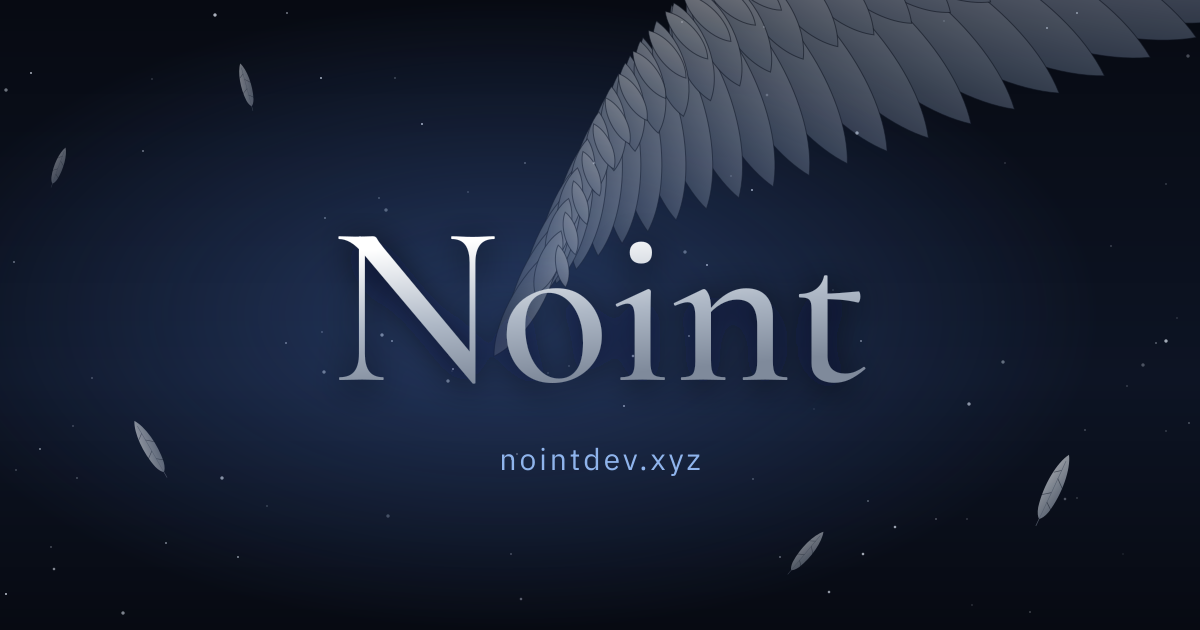
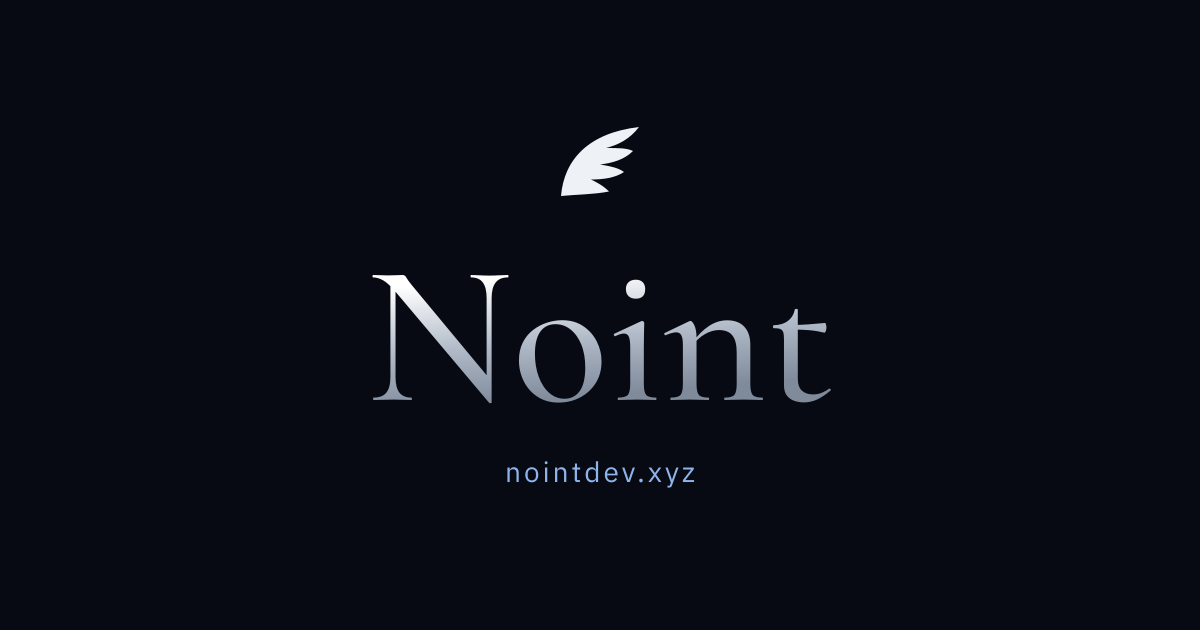
Keep it simple: solid background, the name, and the list
No intro text, stars, glow, falling feathers or wing behind the name.
The preview image is the mark and the name on night blue.

diff --git a/index.html b/index.html
@@ -57,10 +57,10 @@
   <link rel="preconnect" href="https://fonts.gstatic.com" crossorigin>
   <link href="https://fonts.googleapis.com/css2?family=Cormorant:wght@500;600&family=IBM+Plex+Sans:wght@400;500;600&family=Noto+Sans+JP:wght@500&family=Noto+Serif+JP:wght@500&display=swap" rel="stylesheet">
   <!--
-    A night sky after Noint, the ninth apostle in Arifureta, drawn from scratch rather than
-    taken from the show: a silver wing behind the name, a cold blue glow from her eyes, and
-    silver feathers drifting down and fading out (her Disintegration). Projects are
-    numbered, like the apostles.
+    Colours after Noint, the ninth apostle in Arifureta: silver on night blue, with a cold
+    blue for links. The wing mark and the feathers are drawn from scratch, not taken from the
+    show. Each row's feather comes apart into specks on hover (her Disintegration), and
+    projects are numbered, like the apostles.
 
     Generated by build.py from template.html and projects.json. Edit those, not index.html.
   -->
@@ -85,7 +85,7 @@
     body {
       margin: 0;
       min-height: 100vh;
-      background: linear-gradient(180deg, var(--night) 0%, var(--night-2) 55%, var(--night) 100%) fixed;
+      background: var(--night);
       color: var(--ink);
       font: 400 17px/1.65 var(--text);
       -webkit-font-smoothing: antialiased;
@@ -101,31 +101,6 @@
     .ja-serif { font-family: 'Noto Serif JP', Georgia, serif; }
     main, header, footer { position: relative; z-index: 1; }
 
-    /* The sky: stars, and feathers falling through it. Both sit behind everything. */
-    .stars, .fall { position: fixed; inset: 0; pointer-events: none; z-index: 0; }
-    .stars svg { width: 100%; height: 100%; }
-    .fall { overflow: hidden; }
-    .fall span {
-      position: absolute; top: -90px; left: var(--x);
-      width: var(--w); opacity: 0;
-      animation: drop var(--d) linear var(--delay) infinite;
-    }
-    .fall svg { display: block; width: 100%; height: auto; animation: sway calc(var(--d) / 3) ease-in-out infinite alternate; }
-    @keyframes drop {
-      0% { transform: translateY(0); opacity: 0; }
-      8% { opacity: var(--o); }
-      70% { opacity: var(--o); }
-      100% { transform: translateY(calc(100vh + 120px)); opacity: 0; }
-    }
-    @keyframes sway {
-      from { transform: translateX(-26px) rotate(calc(var(--r) - 22deg)); }
-      to { transform: translateX(26px) rotate(calc(var(--r) + 22deg)); }
-    }
-    @media (prefers-reduced-motion: reduce) {
-      .fall span { animation: none; top: var(--y); opacity: var(--o); }
-      .fall svg { animation: none; transform: rotate(var(--r)); }
-    }
-
     /* Top line. */
     .top { display: flex; align-items: center; gap: 10px; padding: 22px 0; }
     .top .mark { width: 28px; height: 28px; color: var(--silver-hi); }
@@ -134,32 +109,16 @@
     .top .gh:hover { color: var(--ink); }
 
     /* The name, with the wing behind it and the glow under both. */
-    .intro { padding: 72px 0 96px; }
-    @media (min-width: 760px) { .intro { padding: 120px 0 140px; } }
-    .intro .wing {
-      position: absolute; z-index: -1;
-      left: 360px; top: -250px;
-      width: 760px; max-width: none; height: auto;
-      opacity: 0.4;
-    }
-    @media (max-width: 759px) { .intro .wing { left: 150px; top: -96px; width: 340px; opacity: 0.32; } }
-    .intro .glow {
-      position: absolute; z-index: -2;
-      left: -10%; top: -40%;
-      width: 120%; height: 180%;
-      background: radial-gradient(closest-side, var(--glow), transparent);
-    }
+    .intro { padding: 56px 0 64px; }
+    @media (min-width: 760px) { .intro { padding: 96px 0 104px; } }
     .intro h1 {
-      margin: 0 0 30px;
+      margin: 0;
       font: 500 clamp(76px, 15vw, 168px)/0.88 var(--display);
       letter-spacing: 0.01em;
       background: linear-gradient(170deg, #FFFFFF 10%, var(--silver) 60%, #7F8A9B 100%);
       -webkit-background-clip: text; background-clip: text;
       color: transparent;
-      filter: drop-shadow(0 6px 36px rgba(88, 136, 230, 0.35));
     }
-    .intro p { margin: 0 0 12px; max-width: 34em; font-size: clamp(17px, 1.7vw, 20px); color: var(--soft); }
-    .intro p:first-of-type { color: var(--ink); }
 
     /* The list. */
     .list-head { display: flex; align-items: baseline; gap: 12px; border-bottom: 1px solid var(--silver-lo); padding-bottom: 10px; }
@@ -249,18 +208,6 @@
       <symbol id="feather" viewBox="0 0 120 370"><path fill="url(#feather-fill)" d="M60,40 C92,90 104,200 84,292 C78,315 68,330 60,335 C52,330 42,315 36,292 C16,200 28,90 60,40 Z"/><path d="M60,150 L97,182 M60,214 L25,240 M60,258 L90,282 M60,112 L34,132" stroke="#0D1424" stroke-opacity="0.55" stroke-width="3" stroke-linecap="round" fill="none"/><path d="M60,70 Q61,220 60,366" stroke="#7F8A9B" stroke-width="2.5" stroke-linecap="round" fill="none"/></symbol>
     </defs>
   </svg>
-  <div class="stars" aria-hidden="true"><svg viewBox="0 0 1000 1000" preserveAspectRatio="xMidYMid slice"><circle cx="463" cy="373" r="0.7" fill="#DCE4F0" opacity="0.36"/><circle cx="677" cy="338" r="1.0" fill="#DCE4F0" opacity="0.79"/><circle cx="81" cy="554" r="1.0" fill="#DCE4F0" opacity="0.67"/><circle cx="728" cy="169" r="1.0" fill="#DCE4F0" opacity="0.82"/><circle cx="423" cy="168" r="0.6" fill="#DCE4F0" opacity="0.32"/><circle cx="506" cy="924" r="1.0" fill="#DCE4F0" opacity="0.29"/><circle cx="688" cy="790" r="0.6" fill="#DCE4F0" opacity="0.80"/><circle cx="205" cy="224" r="1.7" fill="#DCE4F0" opacity="0.50"/><circle cx="88" cy="267" r="0.7" fill="#DCE4F0" opacity="0.49"/><circle cx="342" cy="43" r="1.3" fill="#DCE4F0" opacity="0.78"/><circle cx="879" cy="55" r="1.0" fill="#DCE4F0" opacity="0.76"/><circle cx="139" cy="237" r="1.3" fill="#DCE4F0" opacity="0.79"/><circle cx="112" cy="597" r="0.6" fill="#DCE4F0" opacity="0.71"/><circle cx="198" cy="852" r="0.8" fill="#DCE4F0" opacity="0.25"/><circle cx="84" cy="540" r="0.6" fill="#DCE4F0" opacity="0.55"/><circle cx="573" cy="538" r="0.7" fill="#DCE4F0" opacity="0.50"/><circle cx="398" cy="639" r="0.6" fill="#DCE4F0" opacity="0.67"/><circle cx="145" cy="940" r="1.3" fill="#DCE4F0" opacity="0.82"/><circle cx="54" cy="555" r="1.0" fill="#DCE4F0" opacity="0.76"/><circle cx="745" cy="737" r="1.0" fill="#DCE4F0" opacity="0.85"/><circle cx="121" cy="705" r="0.7" fill="#DCE4F0" opacity="0.35"/><circle cx="505" cy="736" r="1.7" fill="#DCE4F0" opacity="0.65"/><circle cx="590" cy="775" r="0.6" fill="#DCE4F0" opacity="0.77"/><circle cx="110" cy="882" r="0.8" fill="#DCE4F0" opacity="0.52"/><circle cx="402" cy="986" r="1.0" fill="#DCE4F0" opacity="0.70"/><circle cx="379" cy="608" r="0.6" fill="#DCE4F0" opacity="0.51"/><circle cx="213" cy="444" r="0.8" fill="#DCE4F0" opacity="0.74"/><circle cx="307" cy="285" r="1.0" fill="#DCE4F0" opacity="0.72"/><circle cx="25" cy="781" r="1.7" fill="#DCE4F0" opacity="0.51"/><circle cx="346" cy="778" r="1.0" fill="#DCE4F0" opacity="0.69"/><circle cx="425" cy="231" r="1.7" fill="#DCE4F0" opacity="0.49"/><circle cx="373" cy="860" r="0.8" fill="#DCE4F0" opacity="0.33"/><circle cx="290" cy="693" r="0.8" fill="#DCE4F0" opacity="0.27"/><circle cx="939" cy="810" r="0.8" fill="#DCE4F0" opacity="0.82"/><circle cx="986" cy="607" r="0.6" fill="#DCE4F0" opacity="0.28"/><circle cx="450" cy="787" r="0.8" fill="#DCE4F0" opacity="0.62"/><circle cx="966" cy="355" r="0.7" fill="#DCE4F0" opacity="0.54"/><circle cx="278" cy="962" r="1.3" fill="#DCE4F0" opacity="0.58"/><circle cx="696" cy="66" r="1.0" fill="#DCE4F0" opacity="0.34"/><circle cx="562" cy="795" r="1.0" fill="#DCE4F0" opacity="0.78"/><circle cx="169" cy="715" r="1.7" fill="#DCE4F0" opacity="0.61"/><circle cx="608" cy="349" r="0.6" fill="#DCE4F0" opacity="0.42"/><circle cx="128" cy="798" r="1.7" fill="#DCE4F0" opacity="0.30"/><circle cx="780" cy="222" r="0.6" fill="#DCE4F0" opacity="0.37"/><circle cx="474" cy="592" r="1.0" fill="#DCE4F0" opacity="0.48"/><circle cx="173" cy="482" r="0.8" fill="#DCE4F0" opacity="0.57"/><circle cx="941" cy="29" r="1.0" fill="#DCE4F0" opacity="0.78"/><circle cx="544" cy="523" r="1.0" fill="#DCE4F0" opacity="0.63"/><circle cx="796" cy="877" r="1.0" fill="#DCE4F0" opacity="0.58"/><circle cx="300" cy="725" r="1.3" fill="#DCE4F0" opacity="0.33"/><circle cx="100" cy="492" r="0.6" fill="#DCE4F0" opacity="0.54"/><circle cx="637" cy="53" r="1.0" fill="#DCE4F0" opacity="0.27"/><circle cx="244" cy="459" r="0.8" fill="#DCE4F0" opacity="0.74"/><circle cx="730" cy="625" r="0.7" fill="#DCE4F0" opacity="0.27"/><circle cx="597" cy="613" r="1.3" fill="#DCE4F0" opacity="0.50"/><circle cx="589" cy="81" r="0.6" fill="#DCE4F0" opacity="0.61"/><circle cx="181" cy="65" r="0.8" fill="#DCE4F0" opacity="0.62"/><circle cx="547" cy="475" r="1.3" fill="#DCE4F0" opacity="0.72"/><circle cx="334" cy="783" r="0.6" fill="#DCE4F0" opacity="0.53"/><circle cx="449" cy="149" r="1.0" fill="#DCE4F0" opacity="0.84"/><circle cx="833" cy="106" r="0.8" fill="#DCE4F0" opacity="0.65"/><circle cx="451" cy="129" r="0.7" fill="#DCE4F0" opacity="0.32"/><circle cx="53" cy="75" r="1.3" fill="#DCE4F0" opacity="0.84"/><circle cx="372" cy="741" r="1.0" fill="#DCE4F0" opacity="0.63"/><circle cx="201" cy="874" r="0.6" fill="#DCE4F0" opacity="0.39"/><circle cx="256" cy="518" r="0.7" fill="#DCE4F0" opacity="0.26"/><circle cx="253" cy="611" r="0.6" fill="#DCE4F0" opacity="0.56"/><circle cx="417" cy="899" r="1.0" fill="#DCE4F0" opacity="0.76"/><circle cx="605" cy="221" r="0.6" fill="#DCE4F0" opacity="0.66"/><circle cx="132" cy="39" r="0.7" fill="#DCE4F0" opacity="0.84"/><circle cx="786" cy="902" r="0.6" fill="#DCE4F0" opacity="0.78"/><circle cx="920" cy="968" r="0.6" fill="#DCE4F0" opacity="0.27"/><circle cx="439" cy="417" r="0.8" fill="#DCE4F0" opacity="0.55"/><circle cx="347" cy="837" r="1.0" fill="#DCE4F0" opacity="0.51"/><circle cx="79" cy="301" r="1.0" fill="#DCE4F0" opacity="0.62"/><circle cx="568" cy="440" r="0.7" fill="#DCE4F0" opacity="0.45"/><circle cx="59" cy="92" r="0.8" fill="#DCE4F0" opacity="0.58"/><circle cx="189" cy="712" r="1.3" fill="#DCE4F0" opacity="0.79"/><circle cx="944" cy="86" r="1.0" fill="#DCE4F0" opacity="0.83"/><circle cx="600" cy="941" r="1.3" fill="#DCE4F0" opacity="0.69"/><circle cx="211" cy="542" r="0.8" fill="#DCE4F0" opacity="0.30"/><circle cx="670" cy="422" r="0.7" fill="#DCE4F0" opacity="0.77"/><circle cx="324" cy="834" r="1.0" fill="#DCE4F0" opacity="0.55"/><circle cx="463" cy="3" r="1.0" fill="#DCE4F0" opacity="0.37"/><circle cx="224" cy="983" r="0.8" fill="#DCE4F0" opacity="0.28"/><circle cx="149" cy="163" r="0.6" fill="#DCE4F0" opacity="0.56"/><circle cx="790" cy="404" r="1.7" fill="#DCE4F0" opacity="0.49"/><circle cx="888" cy="506" r="0.7" fill="#DCE4F0" opacity="0.56"/><circle cx="357" cy="947" r="0.7" fill="#DCE4F0" opacity="0.44"/><circle cx="385" cy="182" r="1.0" fill="#DCE4F0" opacity="0.72"/><circle cx="178" cy="172" r="0.8" fill="#DCE4F0" opacity="0.66"/><circle cx="20" cy="479" r="1.7" fill="#DCE4F0" opacity="0.70"/><circle cx="427" cy="978" r="0.6" fill="#DCE4F0" opacity="0.41"/><circle cx="144" cy="451" r="1.3" fill="#DCE4F0" opacity="0.85"/><circle cx="179" cy="147" r="1.3" fill="#DCE4F0" opacity="0.46"/><circle cx="601" cy="545" r="0.8" fill="#DCE4F0" opacity="0.27"/><circle cx="186" cy="779" r="1.3" fill="#DCE4F0" opacity="0.71"/><circle cx="453" cy="341" r="1.3" fill="#DCE4F0" opacity="0.58"/><circle cx="902" cy="217" r="0.7" fill="#DCE4F0" opacity="0.75"/><circle cx="569" cy="10" r="1.0" fill="#DCE4F0" opacity="0.85"/><circle cx="936" cy="716" r="1.0" fill="#DCE4F0" opacity="0.47"/><circle cx="372" cy="799" r="1.0" fill="#DCE4F0" opacity="0.51"/><circle cx="727" cy="191" r="0.6" fill="#DCE4F0" opacity="0.80"/><circle cx="964" cy="85" r="0.8" fill="#DCE4F0" opacity="0.41"/><circle cx="247" cy="470" r="1.0" fill="#DCE4F0" opacity="0.36"/><circle cx="531" cy="933" r="1.0" fill="#DCE4F0" opacity="0.45"/><circle cx="223" cy="998" r="0.6" fill="#DCE4F0" opacity="0.28"/><circle cx="854" cy="581" r="0.7" fill="#DCE4F0" opacity="0.64"/><circle cx="339" cy="707" r="0.8" fill="#DCE4F0" opacity="0.43"/><circle cx="36" cy="406" r="1.7" fill="#DCE4F0" opacity="0.40"/></svg></div>
-  <div class="fall" aria-hidden="true">
-    <span style="--x:3.2%;--y:14%;--w:30px;--d:22.7s;--delay:-2.7s;--o:0.41;--r:4deg"><svg viewBox="0 0 120 370"><use href="#feather"/></svg></span>
-    <span style="--x:14.8%;--y:89%;--w:18px;--d:19.1s;--delay:-16.1s;--o:0.50;--r:-26deg"><svg viewBox="0 0 120 370"><use href="#feather"/></svg></span>
-    <span style="--x:24.3%;--y:23%;--w:18px;--d:27.6s;--delay:-24.2s;--o:0.68;--r:-25deg"><svg viewBox="0 0 120 370"><use href="#feather"/></svg></span>
-    <span style="--x:37.2%;--y:58%;--w:26px;--d:17.2s;--delay:-18.2s;--o:0.64;--r:0deg"><svg viewBox="0 0 120 370"><use href="#feather"/></svg></span>
-    <span style="--x:47.1%;--y:45%;--w:18px;--d:29.2s;--delay:-24.5s;--o:0.73;--r:27deg"><svg viewBox="0 0 120 370"><use href="#feather"/></svg></span>
-    <span style="--x:56.7%;--y:30%;--w:26px;--d:27.9s;--delay:-15.3s;--o:0.54;--r:8deg"><svg viewBox="0 0 120 370"><use href="#feather"/></svg></span>
-    <span style="--x:71.6%;--y:19%;--w:26px;--d:19.6s;--delay:-23.9s;--o:0.43;--r:-3deg"><svg viewBox="0 0 120 370"><use href="#feather"/></svg></span>
-    <span style="--x:87.8%;--y:49%;--w:30px;--d:25.8s;--delay:-4.4s;--o:0.64;--r:-35deg"><svg viewBox="0 0 120 370"><use href="#feather"/></svg></span>
-    <span style="--x:98.1%;--y:59%;--w:30px;--d:19.9s;--delay:-10.7s;--o:0.66;--r:-14deg"><svg viewBox="0 0 120 370"><use href="#feather"/></svg></span>
-  </div>
 
   <div class="wrap">
     <header class="top">
@@ -273,11 +220,7 @@
   <main>
     <section class="intro">
       <div class="wrap">
-        <div class="glow" aria-hidden="true"></div>
-        <svg class="wing" viewBox="0 0 1000 640" aria-hidden="true"><defs><linearGradient id="wg1" x1="0" y1="0" x2="1" y2="1"><stop offset="0" stop-color="#D3DDEC"/><stop offset="1" stop-color="#4C5B75"/></linearGradient><linearGradient id="wg2" x1="0" y1="0" x2="1" y2="1"><stop offset="0" stop-color="#E6ECF5"/><stop offset="1" stop-color="#7D8DA6"/></linearGradient><linearGradient id="wg3" x1="0" y1="0" x2="1" y2="1"><stop offset="0" stop-color="#F2F5FA"/><stop offset="1" stop-color="#A6B4C8"/></linearGradient></defs><g transform="translate(60 40) scale(0.95)"><path transform="translate(520.0 40.0) rotate(8.0)" d="M0,0 C107.5,-68.8 322.5,-72.2 430.0,0 C322.5,65.4 107.5,61.9 0,0 Z" fill="url(#wg1)" stroke="#0D1424" stroke-opacity="0.55" stroke-width="1.2"/><path transform="translate(488.5 37.5) rotate(12.5)" d="M0,0 C103.6,-66.3 310.8,-69.6 414.4,0 C310.8,63.0 103.6,59.7 0,0 Z" fill="url(#wg1)" stroke="#0D1424" stroke-opacity="0.55" stroke-width="1.2"/><path transform="translate(458.0 36.5) rotate(17.0)" d="M0,0 C99.8,-63.9 299.4,-67.1 399.2,0 C299.4,60.7 99.8,57.5 0,0 Z" fill="url(#wg1)" stroke="#0D1424" stroke-opacity="0.55" stroke-width="1.2"/><path transform="translate(428.6 37.0) rotate(21.4)" d="M0,0 C96.0,-61.5 288.1,-64.5 384.1,0 C288.1,58.4 96.0,55.3 0,0 Z" fill="url(#wg1)" stroke="#0D1424" stroke-opacity="0.55" stroke-width="1.2"/><path transform="translate(400.2 39.0) rotate(25.9)" d="M0,0 C92.3,-59.1 277.0,-62.1 369.4,0 C277.0,56.1 92.3,53.2 0,0 Z" fill="url(#wg1)" stroke="#0D1424" stroke-opacity="0.55" stroke-width="1.2"/><path transform="translate(372.8 42.4) rotate(30.4)" d="M0,0 C88.7,-56.8 266.2,-59.6 354.9,0 C266.2,53.9 88.7,51.1 0,0 Z" fill="url(#wg1)" stroke="#0D1424" stroke-opacity="0.55" stroke-width="1.2"/><path transform="translate(346.4 47.3) rotate(34.9)" d="M0,0 C85.2,-54.5 255.5,-57.2 340.7,0 C255.5,51.8 85.2,49.1 0,0 Z" fill="url(#wg1)" stroke="#0D1424" stroke-opacity="0.55" stroke-width="1.2"/><path transform="translate(321.1 53.7) rotate(39.4)" d="M0,0 C81.7,-52.3 245.1,-54.9 326.8,0 C245.1,49.7 81.7,47.1 0,0 Z" fill="url(#wg1)" stroke="#0D1424" stroke-opacity="0.55" stroke-width="1.2"/><path transform="translate(296.8 61.5) rotate(43.8)" d="M0,0 C78.3,-50.1 234.9,-52.6 313.2,0 C234.9,47.6 78.3,45.1 0,0 Z" fill="url(#wg1)" stroke="#0D1424" stroke-opacity="0.55" stroke-width="1.2"/><path transform="translate(273.5 70.8) rotate(48.3)" d="M0,0 C75.0,-48.0 224.9,-50.4 299.9,0 C224.9,45.6 75.0,43.2 0,0 Z" fill="url(#wg1)" stroke="#0D1424" stroke-opacity="0.55" stroke-width="1.2"/><path transform="translate(251.2 81.6) rotate(52.8)" d="M0,0 C71.7,-45.9 215.2,-48.2 287.0,0 C215.2,43.6 71.7,41.3 0,0 Z" fill="url(#wg1)" stroke="#0D1424" stroke-opacity="0.55" stroke-width="1.2"/><path transform="translate(230.0 93.9) rotate(57.3)" d="M0,0 C68.6,-43.9 205.8,-46.1 274.3,0 C205.8,41.7 68.6,39.5 0,0 Z" fill="url(#wg1)" stroke="#0D1424" stroke-opacity="0.55" stroke-width="1.2"/><path transform="translate(209.7 107.6) rotate(61.8)" d="M0,0 C65.5,-41.9 196.6,-44.0 262.1,0 C196.6,39.8 65.5,37.7 0,0 Z" fill="url(#wg1)" stroke="#0D1424" stroke-opacity="0.55" stroke-width="1.2"/><path transform="translate(190.5 122.8) rotate(66.2)" d="M0,0 C62.6,-40.0 187.7,-42.0 250.2,0 C187.7,38.0 62.6,36.0 0,0 Z" fill="url(#wg1)" stroke="#0D1424" stroke-opacity="0.55" stroke-width="1.2"/><path transform="translate(172.4 139.5) rotate(70.7)" d="M0,0 C59.7,-38.2 179.0,-40.1 238.7,0 C179.0,36.3 59.7,34.4 0,0 Z" fill="url(#wg1)" stroke="#0D1424" stroke-opacity="0.55" stroke-width="1.2"/><path transform="translate(155.2 157.6) rotate(75.2)" d="M0,0 C56.9,-36.4 170.7,-38.2 227.6,0 C170.7,34.6 56.9,32.8 0,0 Z" fill="url(#wg1)" stroke="#0D1424" stroke-opacity="0.55" stroke-width="1.2"/><path transform="translate(139.1 177.2) rotate(79.7)" d="M0,0 C54.2,-34.7 162.7,-36.5 217.0,0 C162.7,33.0 54.2,31.2 0,0 Z" fill="url(#wg1)" stroke="#0D1424" stroke-opacity="0.55" stroke-width="1.2"/><path transform="translate(124.0 198.3) rotate(84.2)" d="M0,0 C51.7,-33.1 155.1,-34.7 206.8,0 C155.1,31.4 51.7,29.8 0,0 Z" fill="url(#wg1)" stroke="#0D1424" stroke-opacity="0.55" stroke-width="1.2"/><path transform="translate(109.9 220.9) rotate(88.6)" d="M0,0 C49.3,-31.5 147.8,-33.1 197.1,0 C147.8,30.0 49.3,28.4 0,0 Z" fill="url(#wg1)" stroke="#0D1424" stroke-opacity="0.55" stroke-width="1.2"/><path transform="translate(96.8 244.9) rotate(93.1)" d="M0,0 C47.0,-30.1 141.0,-31.6 188.0,0 C141.0,28.6 47.0,27.1 0,0 Z" fill="url(#wg1)" stroke="#0D1424" stroke-opacity="0.55" stroke-width="1.2"/><path transform="translate(84.8 270.4) rotate(97.6)" d="M0,0 C44.9,-28.7 134.6,-30.1 179.4,0 C134.6,27.3 44.9,25.8 0,0 Z" fill="url(#wg1)" stroke="#0D1424" stroke-opacity="0.55" stroke-width="1.2"/><path transform="translate(73.8 297.4) rotate(102.1)" d="M0,0 C42.9,-27.4 128.6,-28.8 171.5,0 C128.6,26.1 42.9,24.7 0,0 Z" fill="url(#wg1)" stroke="#0D1424" stroke-opacity="0.55" stroke-width="1.2"/><path transform="translate(63.8 325.8) rotate(106.6)" d="M0,0 C41.1,-26.3 123.3,-27.6 164.4,0 C123.3,25.0 41.1,23.7 0,0 Z" fill="url(#wg1)" stroke="#0D1424" stroke-opacity="0.55" stroke-width="1.2"/><path transform="translate(54.8 355.7) rotate(111.0)" d="M0,0 C39.5,-25.3 118.6,-26.6 158.2,0 C118.6,24.0 39.5,22.8 0,0 Z" fill="url(#wg1)" stroke="#0D1424" stroke-opacity="0.55" stroke-width="1.2"/><path transform="translate(46.9 387.1) rotate(115.5)" d="M0,0 C38.3,-24.5 114.8,-25.7 153.1,0 C114.8,23.3 38.3,22.0 0,0 Z" fill="url(#wg1)" stroke="#0D1424" stroke-opacity="0.55" stroke-width="1.2"/><path transform="translate(40.0 420.0) rotate(120.0)" d="M0,0 C37.5,-24.0 112.5,-25.2 150.0,0 C112.5,22.8 37.5,21.6 0,0 Z" fill="url(#wg1)" stroke="#0D1424" stroke-opacity="0.55" stroke-width="1.2"/><path transform="translate(458.0 36.5) rotate(22.0)" d="M0,0 C50.0,-42.0 150.0,-44.1 200.0,0 C150.0,39.9 50.0,37.8 0,0 Z" fill="url(#wg2)" stroke="#0D1424" stroke-opacity="0.55" stroke-width="1.2"/><path transform="translate(423.3 37.3) rotate(26.7)" d="M0,0 C47.8,-40.2 143.4,-42.2 191.3,0 C143.4,38.2 47.8,36.1 0,0 Z" fill="url(#wg2)" stroke="#0D1424" stroke-opacity="0.55" stroke-width="1.2"/><path transform="translate(390.0 40.1) rotate(31.5)" d="M0,0 C45.7,-38.4 137.0,-40.3 182.7,0 C137.0,36.4 45.7,34.5 0,0 Z" fill="url(#wg2)" stroke="#0D1424" stroke-opacity="0.55" stroke-width="1.2"/><path transform="translate(358.1 44.9) rotate(36.2)" d="M0,0 C43.6,-36.6 130.8,-38.4 174.3,0 C130.8,34.8 43.6,33.0 0,0 Z" fill="url(#wg2)" stroke="#0D1424" stroke-opacity="0.55" stroke-width="1.2"/><path transform="translate(327.7 51.8) rotate(40.9)" d="M0,0 C41.5,-34.9 124.6,-36.6 166.2,0 C124.6,33.2 41.5,31.4 0,0 Z" fill="url(#wg2)" stroke="#0D1424" stroke-opacity="0.55" stroke-width="1.2"/><path transform="translate(298.7 60.8) rotate(45.7)" d="M0,0 C39.6,-33.2 118.7,-34.9 158.3,0 C118.7,31.6 39.6,29.9 0,0 Z" fill="url(#wg2)" stroke="#0D1424" stroke-opacity="0.55" stroke-width="1.2"/><path transform="translate(271.1 71.9) rotate(50.4)" d="M0,0 C37.6,-31.6 112.9,-33.2 150.5,0 C112.9,30.0 37.6,28.5 0,0 Z" fill="url(#wg2)" stroke="#0D1424" stroke-opacity="0.55" stroke-width="1.2"/><path transform="translate(244.9 85.0) rotate(55.2)" d="M0,0 C35.8,-30.0 107.3,-31.5 143.1,0 C107.3,28.5 35.8,27.0 0,0 Z" fill="url(#wg2)" stroke="#0D1424" stroke-opacity="0.55" stroke-width="1.2"/><path transform="translate(220.2 100.2) rotate(59.9)" d="M0,0 C34.0,-28.5 101.9,-30.0 135.8,0 C101.9,27.1 34.0,25.7 0,0 Z" fill="url(#wg2)" stroke="#0D1424" stroke-opacity="0.55" stroke-width="1.2"/><path transform="translate(197.0 117.4) rotate(64.6)" d="M0,0 C32.2,-27.1 96.6,-28.4 128.9,0 C96.6,25.7 32.2,24.4 0,0 Z" fill="url(#wg2)" stroke="#0D1424" stroke-opacity="0.55" stroke-width="1.2"/><path transform="translate(175.2 136.7) rotate(69.4)" d="M0,0 C30.5,-25.7 91.6,-26.9 122.2,0 C91.6,24.4 30.5,23.1 0,0 Z" fill="url(#wg2)" stroke="#0D1424" stroke-opacity="0.55" stroke-width="1.2"/><path transform="translate(154.8 158.1) rotate(74.1)" d="M0,0 C28.9,-24.3 86.8,-25.5 115.7,0 C86.8,23.1 28.9,21.9 0,0 Z" fill="url(#wg2)" stroke="#0D1424" stroke-opacity="0.55" stroke-width="1.2"/><path transform="translate(135.8 181.5) rotate(78.8)" d="M0,0 C27.4,-23.0 82.2,-24.2 109.7,0 C82.2,21.9 27.4,20.7 0,0 Z" fill="url(#wg2)" stroke="#0D1424" stroke-opacity="0.55" stroke-width="1.2"/><path transform="translate(118.3 207.0) rotate(83.6)" d="M0,0 C26.0,-21.8 77.9,-22.9 103.9,0 C77.9,20.7 26.0,19.6 0,0 Z" fill="url(#wg2)" stroke="#0D1424" stroke-opacity="0.55" stroke-width="1.2"/><path transform="translate(102.2 234.6) rotate(88.3)" d="M0,0 C24.6,-20.7 73.9,-21.7 98.5,0 C73.9,19.7 24.6,18.6 0,0 Z" fill="url(#wg2)" stroke="#0D1424" stroke-opacity="0.55" stroke-width="1.2"/><path transform="translate(87.6 264.2) rotate(93.1)" d="M0,0 C23.4,-19.6 70.2,-20.6 93.5,0 C70.2,18.7 23.4,17.7 0,0 Z" fill="url(#wg2)" stroke="#0D1424" stroke-opacity="0.55" stroke-width="1.2"/><path transform="translate(74.3 295.9) rotate(97.8)" d="M0,0 C22.3,-18.7 66.8,-19.6 89.1,0 C66.8,17.8 22.3,16.8 0,0 Z" fill="url(#wg2)" stroke="#0D1424" stroke-opacity="0.55" stroke-width="1.2"/><path transform="translate(62.6 329.7) rotate(102.5)" d="M0,0 C21.3,-17.9 63.8,-18.8 85.1,0 C63.8,17.0 21.3,16.1 0,0 Z" fill="url(#wg2)" stroke="#0D1424" stroke-opacity="0.55" stroke-width="1.2"/><path transform="translate(52.2 365.5) rotate(107.3)" d="M0,0 C20.5,-17.2 61.5,-18.1 81.9,0 C61.5,16.3 20.5,15.5 0,0 Z" fill="url(#wg2)" stroke="#0D1424" stroke-opacity="0.55" stroke-width="1.2"/><path transform="translate(43.3 403.4) rotate(112.0)" d="M0,0 C20.0,-16.8 60.0,-17.6 80.0,0 C60.0,16.0 20.0,15.1 0,0 Z" fill="url(#wg2)" stroke="#0D1424" stroke-opacity="0.55" stroke-width="1.2"/><path transform="translate(372.8 42.4) rotate(20.0)" d="M0,0 C27.5,-22.0 82.5,-23.1 110.0,0 C82.5,20.9 27.5,19.8 0,0 Z" fill="url(#wg3)" stroke="#0D1424" stroke-opacity="0.55" stroke-width="1.2"/><path transform="translate(341.9 48.3) rotate(23.5)" d="M0,0 C26.3,-21.0 78.8,-22.1 105.1,0 C78.8,20.0 26.3,18.9 0,0 Z" fill="url(#wg3)" stroke="#0D1424" stroke-opacity="0.55" stroke-width="1.2"/><path transform="translate(312.4 56.3) rotate(27.1)" d="M0,0 C25.1,-20.1 75.3,-21.1 100.4,0 C75.3,19.1 25.1,18.1 0,0 Z" fill="url(#wg3)" stroke="#0D1424" stroke-opacity="0.55" stroke-width="1.2"/><path transform="translate(284.3 66.3) rotate(30.6)" d="M0,0 C23.9,-19.1 71.8,-20.1 95.7,0 C71.8,18.2 23.9,17.2 0,0 Z" fill="url(#wg3)" stroke="#0D1424" stroke-opacity="0.55" stroke-width="1.2"/><path transform="translate(257.6 78.3) rotate(34.1)" d="M0,0 C22.8,-18.2 68.4,-19.2 91.2,0 C68.4,17.3 22.8,16.4 0,0 Z" fill="url(#wg3)" stroke="#0D1424" stroke-opacity="0.55" stroke-width="1.2"/><path transform="translate(232.4 92.3) rotate(37.6)" d="M0,0 C21.7,-17.4 65.1,-18.2 86.8,0 C65.1,16.5 21.7,15.6 0,0 Z" fill="url(#wg3)" stroke="#0D1424" stroke-opacity="0.55" stroke-width="1.2"/><path transform="translate(208.6 108.4) rotate(41.2)" d="M0,0 C20.7,-16.5 62.0,-17.4 82.6,0 C62.0,15.7 20.7,14.9 0,0 Z" fill="url(#wg3)" stroke="#0D1424" stroke-opacity="0.55" stroke-width="1.2"/><path transform="translate(186.2 126.6) rotate(44.7)" d="M0,0 C19.6,-15.7 58.9,-16.5 78.5,0 C58.9,14.9 19.6,14.1 0,0 Z" fill="url(#wg3)" stroke="#0D1424" stroke-opacity="0.55" stroke-width="1.2"/><path transform="translate(165.2 146.7) rotate(48.2)" d="M0,0 C18.7,-14.9 56.0,-15.7 74.6,0 C56.0,14.2 18.7,13.4 0,0 Z" fill="url(#wg3)" stroke="#0D1424" stroke-opacity="0.55" stroke-width="1.2"/><path transform="translate(145.6 169.0) rotate(51.8)" d="M0,0 C17.7,-14.2 53.2,-14.9 70.9,0 C53.2,13.5 17.7,12.8 0,0 Z" fill="url(#wg3)" stroke="#0D1424" stroke-opacity="0.55" stroke-width="1.2"/><path transform="translate(127.4 193.2) rotate(55.3)" d="M0,0 C16.8,-13.5 50.5,-14.1 67.3,0 C50.5,12.8 16.8,12.1 0,0 Z" fill="url(#wg3)" stroke="#0D1424" stroke-opacity="0.55" stroke-width="1.2"/><path transform="translate(110.7 219.5) rotate(58.8)" d="M0,0 C16.0,-12.8 48.0,-13.4 64.0,0 C48.0,12.2 16.0,11.5 0,0 Z" fill="url(#wg3)" stroke="#0D1424" stroke-opacity="0.55" stroke-width="1.2"/><path transform="translate(95.4 247.8) rotate(62.4)" d="M0,0 C15.2,-12.2 45.6,-12.8 60.8,0 C45.6,11.6 15.2,10.9 0,0 Z" fill="url(#wg3)" stroke="#0D1424" stroke-opacity="0.55" stroke-width="1.2"/><path transform="translate(81.5 278.2) rotate(65.9)" d="M0,0 C14.5,-11.6 43.4,-12.2 57.9,0 C43.4,11.0 14.5,10.4 0,0 Z" fill="url(#wg3)" stroke="#0D1424" stroke-opacity="0.55" stroke-width="1.2"/><path transform="translate(69.0 310.6) rotate(69.4)" d="M0,0 C13.8,-11.1 41.5,-11.6 55.3,0 C41.5,10.5 13.8,10.0 0,0 Z" fill="url(#wg3)" stroke="#0D1424" stroke-opacity="0.55" stroke-width="1.2"/><path transform="translate(57.9 345.0) rotate(72.9)" d="M0,0 C13.2,-10.6 39.7,-11.1 53.0,0 C39.7,10.1 13.2,9.5 0,0 Z" fill="url(#wg3)" stroke="#0D1424" stroke-opacity="0.55" stroke-width="1.2"/><path transform="translate(48.2 381.5) rotate(76.5)" d="M0,0 C12.8,-10.2 38.4,-10.7 51.1,0 C38.4,9.7 12.8,9.2 0,0 Z" fill="url(#wg3)" stroke="#0D1424" stroke-opacity="0.55" stroke-width="1.2"/><path transform="translate(40.0 420.0) rotate(80.0)" d="M0,0 C12.5,-10.0 37.5,-10.5 50.0,0 C37.5,9.5 12.5,9.0 0,0 Z" fill="url(#wg3)" stroke="#0D1424" stroke-opacity="0.55" stroke-width="1.2"/></g></svg>
         <h1>Noint</h1>
-        <p>I'm Noint. I make apps and other things, and this is where they all go.</p>
-        <p>Two out so far.</p>
       </div>
     </section>
 

diff --git a/template.html b/template.html
@@ -27,10 +27,10 @@
   <link rel="preconnect" href="https://fonts.gstatic.com" crossorigin>
   <link href="https://fonts.googleapis.com/css2?family=Cormorant:wght@500;600&family=IBM+Plex+Sans:wght@400;500;600&family=Noto+Sans+JP:wght@500&family=Noto+Serif+JP:wght@500&display=swap" rel="stylesheet">
   <!--
-    A night sky after Noint, the ninth apostle in Arifureta, drawn from scratch rather than
-    taken from the show: a silver wing behind the name, a cold blue glow from her eyes, and
-    silver feathers drifting down and fading out (her Disintegration). Projects are
-    numbered, like the apostles.
+    Colours after Noint, the ninth apostle in Arifureta: silver on night blue, with a cold
+    blue for links. The wing mark and the feathers are drawn from scratch, not taken from the
+    show. Each row's feather comes apart into specks on hover (her Disintegration), and
+    projects are numbered, like the apostles.
 
     Generated by build.py from template.html and projects.json. Edit those, not index.html.
   -->
@@ -55,7 +55,7 @@
     body {
       margin: 0;
       min-height: 100vh;
-      background: linear-gradient(180deg, var(--night) 0%, var(--night-2) 55%, var(--night) 100%) fixed;
+      background: var(--night);
       color: var(--ink);
       font: 400 17px/1.65 var(--text);
       -webkit-font-smoothing: antialiased;
@@ -71,31 +71,6 @@
     .ja-serif { font-family: 'Noto Serif JP', Georgia, serif; }
     main, header, footer { position: relative; z-index: 1; }
 
-    /* The sky: stars, and feathers falling through it. Both sit behind everything. */
-    .stars, .fall { position: fixed; inset: 0; pointer-events: none; z-index: 0; }
-    .stars svg { width: 100%; height: 100%; }
-    .fall { overflow: hidden; }
-    .fall span {
-      position: absolute; top: -90px; left: var(--x);
-      width: var(--w); opacity: 0;
-      animation: drop var(--d) linear var(--delay) infinite;
-    }
-    .fall svg { display: block; width: 100%; height: auto; animation: sway calc(var(--d) / 3) ease-in-out infinite alternate; }
-    @keyframes drop {
-      0% { transform: translateY(0); opacity: 0; }
-      8% { opacity: var(--o); }
-      70% { opacity: var(--o); }
-      100% { transform: translateY(calc(100vh + 120px)); opacity: 0; }
-    }
-    @keyframes sway {
-      from { transform: translateX(-26px) rotate(calc(var(--r) - 22deg)); }
-      to { transform: translateX(26px) rotate(calc(var(--r) + 22deg)); }
-    }
-    @media (prefers-reduced-motion: reduce) {
-      .fall span { animation: none; top: var(--y); opacity: var(--o); }
-      .fall svg { animation: none; transform: rotate(var(--r)); }
-    }
-
     /* Top line. */
     .top { display: flex; align-items: center; gap: 10px; padding: 22px 0; }
     .top .mark { width: 28px; height: 28px; color: var(--silver-hi); }
@@ -104,32 +79,16 @@
     .top .gh:hover { color: var(--ink); }
 
     /* The name, with the wing behind it and the glow under both. */
-    .intro { padding: 72px 0 96px; }
-    @media (min-width: 760px) { .intro { padding: 120px 0 140px; } }
-    .intro .wing {
-      position: absolute; z-index: -1;
-      left: 360px; top: -250px;
-      width: 760px; max-width: none; height: auto;
-      opacity: 0.4;
-    }
-    @media (max-width: 759px) { .intro .wing { left: 150px; top: -96px; width: 340px; opacity: 0.32; } }
-    .intro .glow {
-      position: absolute; z-index: -2;
-      left: -10%; top: -40%;
-      width: 120%; height: 180%;
-      background: radial-gradient(closest-side, var(--glow), transparent);
-    }
+    .intro { padding: 56px 0 64px; }
+    @media (min-width: 760px) { .intro { padding: 96px 0 104px; } }
     .intro h1 {
-      margin: 0 0 30px;
+      margin: 0;
       font: 500 clamp(76px, 15vw, 168px)/0.88 var(--display);
       letter-spacing: 0.01em;
       background: linear-gradient(170deg, #FFFFFF 10%, var(--silver) 60%, #7F8A9B 100%);
       -webkit-background-clip: text; background-clip: text;
       color: transparent;
-      filter: drop-shadow(0 6px 36px rgba(88, 136, 230, 0.35));
     }
-    .intro p { margin: 0 0 12px; max-width: 34em; font-size: clamp(17px, 1.7vw, 20px); color: var(--soft); }
-    .intro p:first-of-type { color: var(--ink); }
 
     /* The list. */
     .list-head { display: flex; align-items: baseline; gap: 12px; border-bottom: 1px solid var(--silver-lo); padding-bottom: 10px; }
@@ -219,10 +178,6 @@
       <symbol id="feather" viewBox="0 0 120 370">{{FEATHER}}</symbol>
     </defs>
   </svg>
-  <div class="stars" aria-hidden="true">{{STARS}}</div>
-  <div class="fall" aria-hidden="true">
-{{FALLING}}
-  </div>
 
   <div class="wrap">
     <header class="top">
@@ -235,11 +190,7 @@
   <main>
     <section class="intro">
       <div class="wrap">
-        <div class="glow" aria-hidden="true"></div>
-        <svg class="wing" viewBox="0 0 1000 640" aria-hidden="true">{{WING}}</svg>
         <h1>Noint</h1>
-        <p>I'm Noint. I make apps and other things, and this is where they all go.</p>
-        <p>{{COUNT_TEXT}}</p>
       </div>
     </section>
 

diff --git a/build.py b/build.py
@@ -20,7 +20,6 @@ import datetime
 import html
 import json
 import os
-import random
 import shutil
 import subprocess
 from urllib.parse import urlparse
@@ -43,74 +42,10 @@ def feather(fill, notch='#0D1424'):
     )
 
 
-def _leaf(length, half_width):
-    L, W = length, half_width
-    return (f'M0,0 C{L*0.25:.1f},{-W:.1f} {L*0.75:.1f},{-W*1.05:.1f} {L:.1f},0 '
-            f'C{L*0.75:.1f},{W*0.95:.1f} {L*0.25:.1f},{W*0.9:.1f} 0,0 Z')
-
-
-def _bezier(p0, p1, p2, t):
-    return tuple((1 - t) ** 2 * a + 2 * (1 - t) * t * b + t * t * c for a, b, c in zip(p0, p1, p2))
-
-
-def wing(prefix):
-    """A wing on a 1000 x 640 box: long flight feathers hanging from the arm,
-    with two rows of shorter covering feathers over them."""
-    defs = (
-        f'<defs>'
-        f'<linearGradient id="{prefix}1" x1="0" y1="0" x2="1" y2="1"><stop offset="0" stop-color="#D3DDEC"/><stop offset="1" stop-color="#4C5B75"/></linearGradient>'
-        f'<linearGradient id="{prefix}2" x1="0" y1="0" x2="1" y2="1"><stop offset="0" stop-color="#E6ECF5"/><stop offset="1" stop-color="#7D8DA6"/></linearGradient>'
-        f'<linearGradient id="{prefix}3" x1="0" y1="0" x2="1" y2="1"><stop offset="0" stop-color="#F2F5FA"/><stop offset="1" stop-color="#A6B4C8"/></linearGradient>'
-        f'</defs>'
-    )
-    shoulder, bend, tip = (40, 420), (120, 0), (520, 40)
-    layers = [  # count, shortest and longest, width, angle at shoulder and tip, fill, part of the arm
-        (26, (150, 430), 0.16, (120, 8), f'url(#{prefix}1)', (0.0, 1.0)),
-        (20, (80, 200), 0.21, (112, 22), f'url(#{prefix}2)', (0.02, 0.92)),
-        (18, (50, 110), 0.2, (80, 20), f'url(#{prefix}3)', (0.0, 0.8)),
-    ]
-    out = []
-    for count, (short, long_), width, (a0, a1), fill, (t0, t1) in layers:
-        for i in reversed(range(count)):
-            u = i / (count - 1)
-            x, y = _bezier(shoulder, bend, tip, t0 + (t1 - t0) * u)
-            length = short + (long_ - short) * u ** 1.4
-            angle = a0 + (a1 - a0) * u
-            out.append(f'<path transform="translate({x:.1f} {y:.1f}) rotate({angle:.1f})" '
-                       f'd="{_leaf(length, length * width)}" fill="{fill}" '
-                       'stroke="#0D1424" stroke-opacity="0.55" stroke-width="1.2"/>')
-    return defs + f'<g transform="translate(60 40) scale(0.95)">{"".join(out)}</g>'
-
-
 # The mark: a small wing, on a 32 x 32 box.
 MARK = ('<path fill="currentColor" d="M3 26 C4 14 12 5 29 3 C26 7 22 9 18 10 C22 10 25 10 27 11 '
         'C24 14 20 15 16 15.5 C19 16 22 16.5 24 18 C21 20 17 20.5 13 20.5 C15 21.5 17 22.5 19 24.5 '
         'C14 25.5 8 25.5 3 26 Z"/>')
-
-
-def star_dots(width, height, count, seed):
-    rng = random.Random(seed)
-    dots = []
-    for _ in range(count):
-        x, y = rng.uniform(0, width), rng.uniform(0, height)
-        r = rng.choice([0.6, 0.7, 0.8, 1.0, 1.0, 1.3, 1.7])
-        o = rng.uniform(0.25, 0.85)
-        dots.append(f'<circle cx="{x:.0f}" cy="{y:.0f}" r="{r}" fill="#DCE4F0" opacity="{o:.2f}"/>')
-    return ''.join(dots)
-
-
-def falling(count=9, seed=4):
-    """Feathers that drift down the page. Positions are fixed by the seed, so
-    every build gives the same page."""
-    rng = random.Random(seed)
-    spans = []
-    for i in range(count):
-        x = (i + rng.uniform(0.1, 0.9)) / count * 100
-        style = (f'--x:{x:.1f}%;--y:{rng.uniform(5, 90):.0f}%;--w:{rng.choice([18, 22, 26, 30, 36])}px;'
-                 f'--d:{rng.uniform(16, 30):.1f}s;--delay:{-rng.uniform(0, 30):.1f}s;'
-                 f'--o:{rng.uniform(0.4, 0.75):.2f};--r:{rng.uniform(-40, 40):.0f}deg')
-        spans.append(f'    <span style="{style}"><svg viewBox="0 0 120 370"><use href="#feather"/></svg></span>')
-    return '\n'.join(spans)
 
 
 # --- Text ---------------------------------------------------------------------
@@ -129,15 +64,6 @@ def summary(projects):
 
 def word(n):
     return NUMBERS[n] if n < len(NUMBERS) else str(n)
-
-
-def count_text(projects):
-    released = sum(p['status'] == 'released' for p in projects)
-    coming = sum(p['status'] in ('in-progress', 'planned') for p in projects)
-    text = f'{word(released).capitalize()} out so far.' if released else "Nothing's out yet."
-    if coming:
-        text += f' {word(coming).capitalize()} on the way.'
-    return text
 
 
 def count_short(projects):
@@ -207,12 +133,7 @@ def build_page(projects):
         'PROJECT_NAMES': html.escape(join_words([p['name'] for p in projects])),
         'JSONLD': jsonld(projects),
         'FEATHER': feather('url(#feather-fill)'),
-        'STARS': ('<svg viewBox="0 0 1000 1000" preserveAspectRatio="xMidYMid slice">'
-                  + star_dots(1000, 1000, 110, 9) + '</svg>'),
-        'FALLING': falling(),
         'MARK': MARK,
-        'WING': wing('wg'),
-        'COUNT_TEXT': html.escape(count_text(projects)),
         'COUNT_SHORT': html.escape(count_short(projects)),
         'PROJECT_ROWS': '\n'.join(row(i + 1, p) for i, p in enumerate(projects)),
         'YEAR': str(datetime.date.today().year),
@@ -243,27 +164,15 @@ def build_images():
     render(icon, os.path.join(assets, 'favicon.png'), 48, 48)
     render(icon, os.path.join(assets, 'apple-touch-icon.png'), 180, 180)
 
-    # Preview image: the name under the wing, in the night sky, with a few feathers falling.
-    fall = ''.join(
-        f'<g transform="translate({x} {y}) rotate({r}) scale({s})" opacity="{o}">{feather("url(#ff)")}</g>'
-        for x, y, r, s, o in [(120, 420, -30, 0.2, 0.6), (1060, 440, 25, 0.24, 0.65),
-                              (230, 60, -15, 0.15, 0.5), (820, 520, 40, 0.17, 0.5), (60, 140, 20, 0.13, 0.4)]
-    )
+    # Preview image: the mark and the name on solid night blue.
     og = f'''<svg xmlns="http://www.w3.org/2000/svg" width="1200" height="630" viewBox="0 0 1200 630">
   <defs>
-    <linearGradient id="sky" x1="0" y1="0" x2="0" y2="1"><stop offset="0" stop-color="#070A12"/><stop offset="0.6" stop-color="#0D1424"/><stop offset="1" stop-color="#070A12"/></linearGradient>
-    <radialGradient id="glow" cx="0.42" cy="0.5" r="0.5"><stop offset="0" stop-color="#5888E6" stop-opacity="0.32"/><stop offset="1" stop-color="#5888E6" stop-opacity="0"/></radialGradient>
     <linearGradient id="name" x1="0" y1="0" x2="0.3" y2="1"><stop offset="0.1" stop-color="#FFFFFF"/><stop offset="0.6" stop-color="#AEB8C6"/><stop offset="1" stop-color="#7F8A9B"/></linearGradient>
-    <filter id="shade" x="-20%" y="-20%" width="140%" height="160%"><feDropShadow dx="0" dy="6" stdDeviation="18" flood-color="#070A12" flood-opacity="0.85"/></filter>
-    <linearGradient id="ff" x1="0" y1="0" x2="1" y2="1"><stop offset="0" stop-color="#EEF1F5"/><stop offset="1" stop-color="#7F8A9B"/></linearGradient>
   </defs>
-  <rect width="1200" height="630" fill="url(#sky)"/>
-  {star_dots(1200, 630, 90, 3)}
-  <rect width="1200" height="630" fill="url(#glow)"/>
-  <g transform="translate(470 -150) scale(0.9)" opacity="0.45">{wing('og')}</g>
-  {fall}
-  <text x="600" y="380" text-anchor="middle" font-family="Cormorant" font-weight="500" font-size="230" fill="url(#name)" filter="url(#shade)">Noint</text>
-  <text x="600" y="470" text-anchor="middle" font-family="IBM Plex Sans" font-size="30" letter-spacing="3" fill="#8FB4EC">nointdev.xyz</text>
+  <rect width="1200" height="630" fill="#070A12"/>
+  <g transform="translate(552 118) scale(3)" color="#EEF1F5">{MARK}</g>
+  <text x="600" y="400" text-anchor="middle" font-family="Cormorant" font-weight="500" font-size="200" fill="url(#name)">Noint</text>
+  <text x="600" y="482" text-anchor="middle" font-family="IBM Plex Sans" font-size="28" letter-spacing="3" fill="#8FB4EC">nointdev.xyz</text>
 </svg>'''
     render(og, os.path.join(assets, 'og-image.png'), 1200, 630)
 

diff --git a/README.md b/README.md
@@ -2,7 +2,7 @@
 
 Noint's home page: a short intro and the list of apps, each linking to its own site on a subdomain (kizamu.nointdev.xyz, itogatari.nointdev.xyz).
 
-The look borrows from Noint, the ninth apostle in *Arifureta*, drawn from scratch rather than taken from the show: a night sky, a silver wing behind the name, a cold blue glow, and silver feathers that drift down and fade out. Projects are numbered, like the apostles.
+The look borrows from Noint, the ninth apostle in *Arifureta*, without using the show's art: silver on solid night blue, a wing for the mark, and a feather on each row that comes apart into specks on hover. Projects are numbered, like the apostles.
 
 ## Adding a project
 
